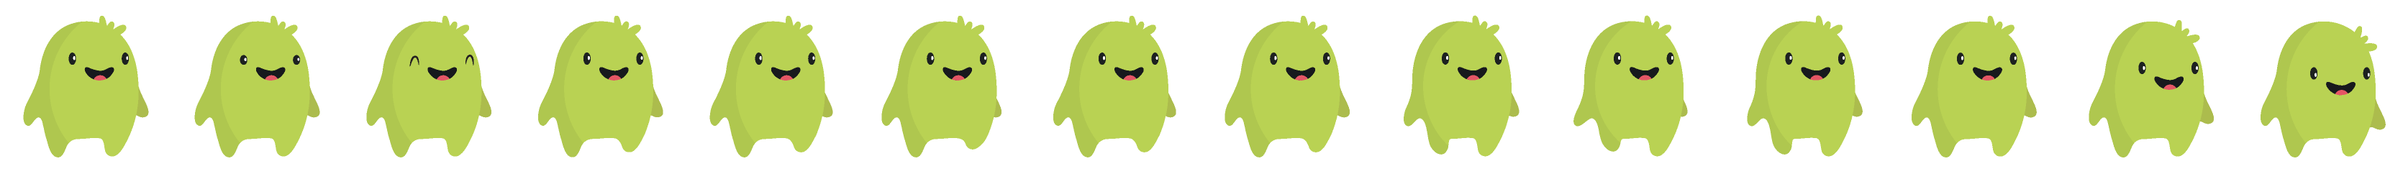
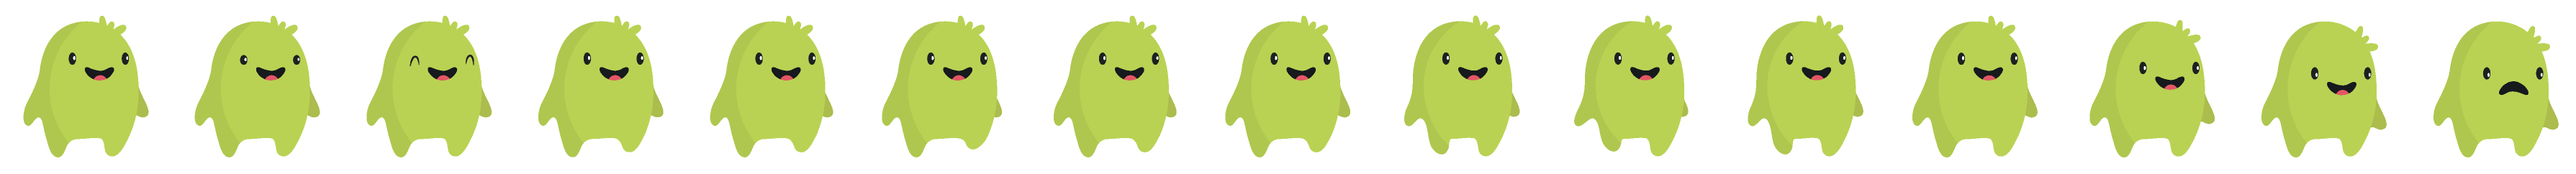
nano animation

diff --git a/src/actores/NanoAnimado.ts b/src/actores/NanoAnimado.ts
@@ -2,13 +2,15 @@
 
 class NanoAnimado extends ActorAnimado {
     constructor(x, y) {
-        super(x, y, {grilla: 'nano.png', cantColumnas:14});
+        super(x, y, { grilla: 'nano.png', cantColumnas: 15 });
         this.definirAnimacion('parado', new Cuadros([0]).repetirVeces(30).
-                                          concat([1,1,2,2]).
-                                          concat(new Cuadros([2]).repetirVeces(15)).
-                                          concat([2,2,1,1])
-                                          , 6, true);
-        this.definirAnimacion('correr', [7,9,7,9], 12);
-        this.definirAnimacion('comerBanana', [10,11,12,13,13,12,11,10], 30);
+            concat([1, 1, 2, 2]).
+            concat(new Cuadros([2]).repetirVeces(15)).
+            concat([2, 2, 1, 1])
+            , 6, true);
+        this.definirAnimacion('correr', [7, 9, 7, 9], 12);
+        this.definirAnimacion('comerBanana', [10, 11, 12, 13, 13, 12, 11, 10], 30);
+        this.definirAnimacion('correrChocando', [7, 9, 7, 9, 14, 14, 14, 14, 14, 14], 12);
+        this.definirAnimacion('obstaculo', [14], 12);
     }
 }
